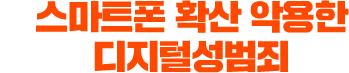
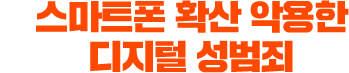
[tracknroom] 맞춤범 수정 * 디지털성범죄 -> 디지털 성범죄로 일괄 수정

Changed region(s): [[0.2579, 0.5479, 0.8596, 1.0]]

diff --git a/index.html b/index.html
@@ -43,7 +43,6 @@
 	<script type="text/javascript" src="https://www.khan.co.kr/spko/js/khan_analystics.js"></script>
 	<script async src="https://www.googletagmanager.com/gtag/js?id=UA-79840639-2"></script>
 
-	<script src="js/bubble_chart.js"></script>
 	<!-- Google Tag Manager -->
 	<script>
 	(function(w,d,s,l,i){w[l]=w[l]||[];w[l].push({'gtm.start':
@@ -368,10 +367,10 @@
 								<div class="each-section sec--6">
 									<div class="sec-title sec-title--6 hideme">
 										<p class="sec-year">1999년~2000년대 초</p>
-										<h2>6. 디지털성범죄 기업화</h2>
+										<h2>6. 디지털 성범죄 기업화</h2>
 										<div class="img-title"><img src="http://img.khan.co.kr/spko/storytelling/2020/tracknroom/sec-title-06.png" alt="6. 디지털성범죄 기업화"></div>
 										<div class="sec-title-desc">
-											<p>사이버공간에서 성범죄 영상을 유통, 소비하는 게 ‘일상’이 됐다. 범죄라는 인식도, 처벌도 미미했다. 초대형 디지털성범죄 사이트가 등장했다. ‘검거 - 플랫폼 이동 - 검거 - 플랫폼 이동’이라는 악순환이 시작됐다.</p>
+											<p>사이버공간에서 성범죄 영상을 유통, 소비하는 게 ‘일상’이 됐다. 범죄라는 인식도, 처벌도 미미했다. ‘초대형 사이트 검거-플랫폼-이동-검거-이동’의 악순환이 시작됐다.</p>
 										</div>
 									</div>
 									
@@ -432,7 +431,7 @@
 									<div class="sec-title sec-title--10 hideme">
 										<p class="sec-year">2010년대</p>
 										<h2>9. 디지털성범죄와의 전쟁</h2>
-										<div class="img-title"><img src="http://img.khan.co.kr/spko/storytelling/2020/tracknroom/sec-title-09-2.png" alt="9. 디지털성범죄와의 전쟁"></div>
+										<div class="img-title"><img src="http://img.khan.co.kr/spko/storytelling/2020/tracknroom/sec-title-09-3.png" alt="9. 디지털성범죄와의 전쟁"></div>
 										<div class="sec-title-desc">
 											<p>‘조건만남’ ‘초대남’ 따위 이름 뒤에 벌어지는 범죄의 심각성이 드러났다. 법은 범죄를 ‘일부의 일탈’ 정도로 치부했다. 피해자의 책임을 물으며 성범죄를 방치했다. 음란물, 성매수로 불리는 디지털성범죄를 ‘성착취’로 규정하는 싸움이 곳곳에서 시작됐다.</p>
 										</div>

diff --git a/js/custom.js b/js/custom.js
@@ -755,6 +755,7 @@ $(function(){
 
 	/******** 모바일 전용 조정 ********/
 	if(isMobile==true){		
+		$(".sec--5 .sec-title .img-title img").attr("src", "http://img.khan.co.kr/spko/storytelling/2020/tracknroom/sec-title-05-m.png");
 		$(".sec--7 .sec-title .img-title img").attr("src", "http://img.khan.co.kr/spko/storytelling/2020/tracknroom/sec-title-07-m.png");
 		$(".sec--8 .sec-title .img-title img").attr("src", "http://img.khan.co.kr/spko/storytelling/2020/tracknroom/sec-title-08-m.png");
 

diff --git a/css/style.css b/css/style.css
@@ -1092,6 +1092,7 @@ margin: 10px auto;word-break: keep-all;font-weight: 300;}
 .el-card .card-body:hover > .view-card p { background:none; opacity: 0.7; }
 .el-simple-card .card-body { min-height: inherit; }
 
+.sec--5 .sec-title .img-title img { height: 47px; }
 .sec--7 .sec-title .img-title img { height: 47px; }
 .sec--8 .sec-title .img-title img { height: 47px; }
 .sec--14 .sec-title .img-title img { height: 42px; }
